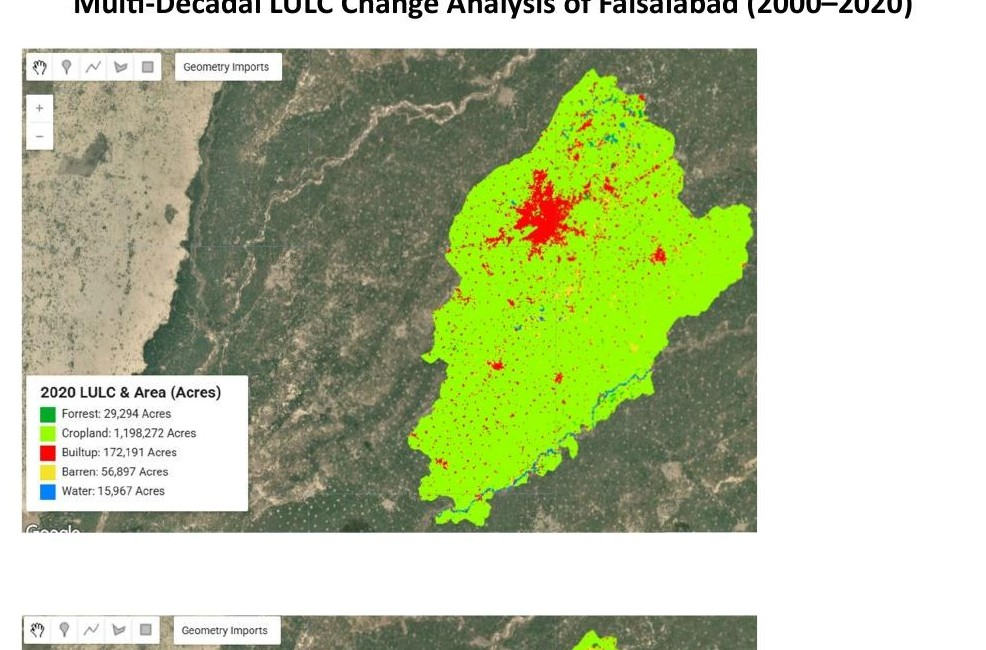
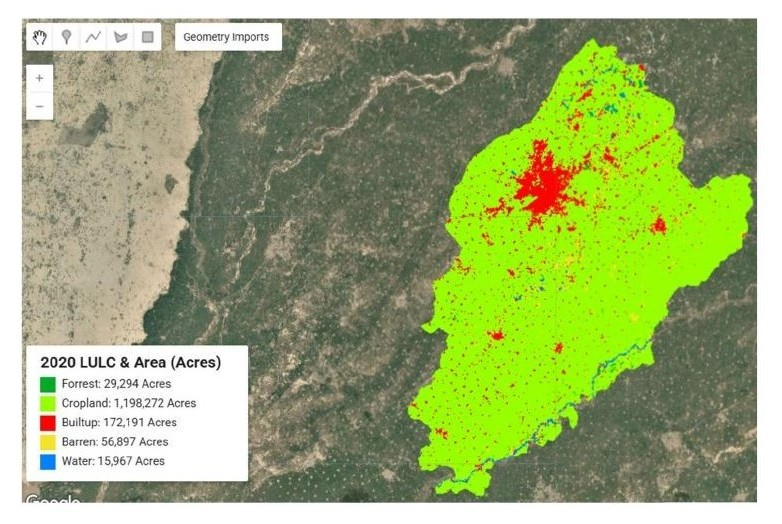
Update portfolio website - Few basic changes

diff --git a/index.html b/index.html
@@ -29,16 +29,16 @@
 <section class="hero">
   <div class="container hero-grid">
     <div>
-      <div class="eyebrow">Agricultural Engineering · Crop Modeling · Earth Observation</div>
+      <div class="eyebrow">Agricultural Engineering · Earth Observation · Crop & Environmental Modeling</div>
       <h1>Waqas Ahmad</h1>
       <p class="hero-intro">
-        Agricultural engineer and researcher working with Earth observation, field sensing and computational methods
-        to better understand crop water use, productivity and agricultural systems.
+        Agricultural engineer and researcher using Earth observation, field sensing and computational methods to study crop growth, water use, productivity, and soil–plant–atmosphere interactions in agricultural systems.
       </p>
       <div class="actions">
         <a class="button primary" href="#projects">View Selected Work</a>
         <a class="button" href="assets/Waqas_Ahmad_CV.pdf">Download CV</a>
-        <a class="button" href="https://github.com/vakasahmad" target="_blank" rel="noreferrer">GitHub</a>
+        <!-- Replace # with your GitHub profile -->
+        <a class="button" href="#" target="_blank" rel="noreferrer">GitHub</a>
       </div>
     </div>
     <div class="portrait">
@@ -53,21 +53,18 @@
     <h2 class="section-heading">About</h2>
     <div class="prose">
       <p>
-        I am an Agricultural Engineer with earlier training in Mechatronics Engineering and
-        Electronics &amp; Computer Engineering. My transition into agricultural research began in 2021
+        I am an Agricultural Engineer with earlier education in Mechatronics and Electronics Engineering. My transition into agricultural research began in 2021
         when I joined the Precision Agriculture &amp; Analytics Lab (PAAL) at the University of Agriculture Faisalabad.
       </p>
       <p>
-        I initially worked with research infrastructure and field sensing — equipment requirements, weather monitoring,
-        UAV platforms and multispectral / thermal sensors. That work gradually led me into satellite remote sensing,
-        geospatial data processing and process-based crop modeling, where I became particularly interested in connecting
-        observations of crop state and water use with mechanistic simulations.
+        I initially worked with research infrastructure and field sensing, including equipment requirements, weather monitoring, UAV platforms, and multispectral 
+	and thermal sensors. This gradually led me into satellite remote sensing, geospatial data processing, and process-based crop modelling, where I became particularly 
+	interested in connecting observations of crop state and water use with mechanistic simulations.
       </p>
       <p>
-        I completed an MSc (Hons) in Agricultural Engineering in 2025. My research focused on assimilating
-        satellite-derived LAI and actual evapotranspiration into CropSyst for wheat biomass and yield
-        estimation. Alongside research, I have worked on applied crop monitoring, UAV field activities, climate and
-        hazard analyses, and stakeholder-facing precision-agriculture projects.
+        I completed an MSc (Hons) in Agricultural Engineering in 2025. My research focused on assimilating satellite-derived LAI and actual evapotranspiration into CropSyst 
+	for wheat biomass and yield estimation. Alongside this work, I have contributed to applied crop monitoring, UAV field activities, climate and hazard analyses, and 
+	agriculture decision support systems.
       </p>
     </div>
   </div>
@@ -79,10 +76,10 @@
     <h2 class="section-heading">Research Interests</h2>
 
     <ul class="research-interest-list">
-      <li>Process-based crop modeling and Earth observation data assimilation</li>
-      <li>Crop water use, evapotranspiration and soil-water balance</li>
-      <li>Crop phenology, LAI, biomass and yield estimation</li>
-      <li>UAV and satellite sensing for precision agriculture</li>
+      <li>Process-based crop and environmental modelling</li>
+      <li>Earth observation and data assimilation for agricultural systems</li>
+      <li>Crop water use, evapotranspiration and soil–plant–atmosphere interactions</li>
+      <li>UAV and satellite sensing for crop monitoring and precision agriculture</li>
     </ul>
   </div>
 </section>
@@ -289,14 +286,14 @@
       <div class="field-copy">
         <p>
           My precision-agriculture work has included UAV-based mapping, field sensing and research infrastructure,
-          complementing the satellite and modeling work shown elsewhere in the portfolio.
+          complementing the satellite and modeling work.
         </p>
         <ul>
-          <li>SenseFly eBee mission planning in eMotion 3 and UAV data acquisition</li>
-          <li>RGB, multispectral and thermal sensors for crop / field assessment</li>
-          <li>Weather-station installation and cloud-based data logging</li>
-          <li>RTK / GCP workflows, crop canopy sensing and proximal measurements</li>
-          <li>Field demonstrations and stakeholder training</li>
+          <li>DJI and SenseFly/AgEagle UAV mission planning, flight operations and data acquisition</li>
+	  <li>RGB, multispectral and thermal sensing for crop and field assessment</li>
+  	  <li>Automated weather-station installation and cloud-based data logging</li>
+	  <li>RTK/GCP workflows, radiometric calibration, canopy sensing and proximal measurements</li>
+	  <li>Field demonstrations, researcher support and stakeholder training</li>
         </ul>
       </div>
       <div class="field-gallery">
@@ -373,7 +370,9 @@
       </div>
       <div class="contact-links">
         <a href="mailto:vakasahmad@gmail.com">Email</a>
-        <a href="https://github.com/vakasahmad" target="_blank" rel="noreferrer">GitHub</a>
+        <!-- Replace # with your actual profiles -->
+        <a href="#" target="_blank" rel="noreferrer">LinkedIn</a>
+        <a href="#" target="_blank" rel="noreferrer">GitHub</a>
       </div>
     </div>
   </div>

diff --git a/projects/kisan360.html b/projects/kisan360.html
@@ -54,8 +54,7 @@
   <p>
     Pilot implementation covered Faisalabad, Okara, Toba Tek Singh and Burewala. The wider project delivered
     a web portal and Android / iOS application, field sensing infrastructure, training materials and stakeholder
-    engagement activities. The official project title used the phrase “High Throughput Crop Monitoring Using
-    Computer Vision for Climate Smart Agriculture”; this page focuses specifically on my remote-sensing,
+    engagement activities. This page focuses specifically on my remote-sensing,
     geospatial and implementation contribution.
   </p>
   <div class="figure">
@@ -95,7 +94,7 @@
     </div>
     <div class="figure">
       <img src="../assets/images/kisan-mobile.jpg" alt="Kisan360 Android and iOS mobile application screens">
-      <div class="caption">Mobile interface documented in the final project report.</div>
+      <div class="caption">Mobile application interface.</div>
     </div>
   </div>
 </section>
@@ -129,7 +128,7 @@
   <p>
     Kisan360 complemented my crop-modeling research by exposing me to the operational side of Earth observation:
     how technical outputs need to be simplified, tested, communicated and used by people outside a remote-sensing
-    research environment. It also strengthened my experience working across technical, field and stakeholder-facing tasks.
+    research environment.
   </p>
   <div class="data-tools">
     <span>Sentinel-2</span><span>Google Earth Engine</span><span>Precision Agriculture</span><span>Crop Monitoring</span><span>Decision Support</span><span>Field Implementation</span>

diff --git a/projects/lulc.html b/projects/lulc.html
@@ -54,6 +54,10 @@
     Landsat 5 was used for 2000 and 2010, while Landsat 8 was used for 2020. Predictor variables included visible,
     NIR, SWIR and thermal bands together with NDVI, NDBI, NDSI and MNDWI.
   </p>
+  <div class="figure">
+    <img src="../assets/images/lulc-accuracy.jpg" alt="Methodology summary, accuracy statistics and confusion matrices for the Faisalabad LULC analysis">
+    <div class="caption">Methodology summary from the original analysis.</div>
+  </div>
 </section>
 
 <section class="content-section">
@@ -74,10 +78,6 @@
       <tr><td>2020</td><td>77.68%</td><td>0.70</td></tr>
     </tbody>
   </table>
-  <div class="figure">
-    <img src="../assets/images/lulc-accuracy.jpg" alt="Methodology summary, accuracy statistics and confusion matrices for the Faisalabad LULC analysis">
-    <div class="caption">Methodology summary and confusion matrices from the original analysis.</div>
-  </div>
 </section>
 
 <section class="content-section">

diff --git a/README.md b/README.md
@@ -1,5 +1,172 @@
-# Waqas Ahmad — Academic Portfolio
+# Waqas Ahmad — Academic / PhD Portfolio
 
-Personal academic portfolio focused on crop modelling, remote sensing, precision agriculture, and Earth observation.
+This is a static website designed for GitHub Pages.
 
-Website: https://vakasahmad.github.io
+## Design logic
+
+The homepage separates the work into:
+
+### Featured Work
+1. MSc crop-modeling / satellite-data-assimilation research
+2. Kisan360 applied precision-agriculture project
+
+### Selected Geospatial Work
+3. Köppen-Geiger climate classification
+4. D.G. Khan flood mapping
+5. Faisalabad LULC classification
+
+This intentionally avoids presenting all five items as equivalent research studies.
+
+## Files
+
+- `index.html` — homepage
+- `styles.css` — shared design
+- `script.js` — mobile navigation + image fallbacks
+- `projects/` — five individual project pages
+- `assets/images/` — project / profile images
+- `assets/Waqas_Ahmad_CV.pdf` — current CV
+
+## Images already included from your files
+
+The current build includes:
+- profile photo
+- Kisan360 pilot map / portal / mobile screenshots / field image
+- Köppen-Geiger climate maps from the original analysis
+- flood mapping figures from the conference document
+- LULC report pages / classification outputs
+
+## Images you should add later
+
+These are intentionally missing. The site will show the ALT text as a placeholder until you add the file.
+
+### Thesis
+- `assets/images/thesis-hero.jpg`
+- `assets/images/thesis-workflow.jpg`
+- `assets/images/thesis-et-phenology.jpg`
+- `assets/images/thesis-yield-results.jpg`
+
+Recommended:
+- strongest result figure as `thesis-hero.jpg`
+- a clean workflow diagram
+- ET / phenology time series
+- observed-vs-modeled biomass or yield figure
+
+### Field / UAV gallery
+- `assets/images/field-uav-operation.jpg`
+- `assets/images/field-multispectral.jpg`
+- `assets/images/field-sensors.jpg`
+- `assets/images/field-training.jpg`
+
+Use real photographs of you / your project activities rather than stock images.
+
+## Links to replace
+
+Search the HTML files for `href="#"` and replace:
+- GitHub
+- LinkedIn
+
+The email is currently set to:
+`vakasahmad@gmail.com`
+
+## CV
+
+The included PDF is the CV you supplied for the Jülich PhD application.
+Replace `assets/Waqas_Ahmad_CV.pdf` with your final general academic CV before publishing if desired.
+
+## Research-output links
+
+You may later add:
+- Google Drive / repository links to conference abstracts
+- GitHub repository for Köppen-Geiger code
+- manuscript / preprint link when available
+- project resources for Kisan360
+
+## Publish on GitHub Pages
+
+Create a repository named:
+
+`YOUR-GITHUB-USERNAME.github.io`
+
+Upload the CONTENTS of this folder to the repository root.
+
+Your site will be:
+
+`https://YOUR-GITHUB-USERNAME.github.io/`
+
+No build system or external framework is required.
+
+
+## Final homepage revisions
+
+This build includes the final section-by-section decisions:
+
+- Header preserved, but the MSc / research direction / location quick-fact row was removed.
+- About section preserved.
+- Research Interests are now a simple, lighter-weight bullet list with no numbered cards or dividers.
+- Projects section follows the approved sample:
+  - two wide horizontal Featured Work cards
+  - three compact horizontal Selected Geospatial Work cards
+- Project figures use `object-fit: contain` by default so replacing images does not crop their left/right edges.
+- Remaining homepage sections and individual project-page content are preserved from the previous complete build.
+
+If you prefer a photograph or screenshot to fill its frame and crop intentionally, add the class `photo-fit`
+to its image container.
+
+
+## Projects section — latest fix
+The homepage Projects section has been rebuilt again to match the approved sample more closely:
+- no top project-type label lines
+- shorter text
+- sample-like aspect ratios
+- two horizontal featured cards
+- three compact horizontal geospatial cards
+- a dedicated cropped `kisan-card.jpg` homepage thumbnail
+- scientific images remain `contain` by default to avoid unwanted cropping
+
+
+## Homepage project thumbnails — final specification
+
+The Projects section is now built specifically around dedicated square thumbnails.
+
+Use **1200 × 1200 px** images and replace these files:
+
+- `assets/images/home-thesis.jpg`
+- `assets/images/home-kisan360.jpg`
+- `assets/images/home-koppen.jpg`
+- `assets/images/home-flood.jpg`
+- `assets/images/home-lulc.jpg`
+
+Recommended thumbnail composition:
+- Thesis: 2×2 collage (LAI, ET, phenology, yield result)
+- Kisan360: crop/field condition portal view
+- Köppen-Geiger: climate map with compact legend
+- Flood: strongest flood map with compact legend
+- LULC: one representative map or compact 3-year collage
+
+The homepage cards use `object-fit: cover`, so square thumbnails will fill the rounded image frames cleanly.
+Keep important labels/legends at least ~60 px from image edges.
+
+
+## Projects V3 — final card format
+
+The homepage Projects section now uses **image above, text below** cards and the same
+standard container width as the rest of the portfolio.
+
+Replace these homepage thumbnails with your own **1600 × 1000 px** images:
+
+- `assets/images/home-thesis-16x10.jpg`
+- `assets/images/home-kisan360-16x10.jpg`
+- `assets/images/home-koppen-16x10.jpg`
+- `assets/images/home-flood-16x10.jpg`
+- `assets/images/home-lulc-16x10.jpg`
+
+The thumbnails are displayed at a fixed **16:10** ratio using `object-fit: cover`.
+This gives predictable card geometry and avoids the distortion/cropping problems caused by
+trying to reuse arbitrary project figures.
+
+Recommended:
+- thesis: 2×2 collage
+- Kisan360: cropped portal / field-condition screenshot
+- Köppen: climate map + compact legend
+- flood: strongest flood map + compact legend
+- LULC: one strong map or compact 3-year collage
